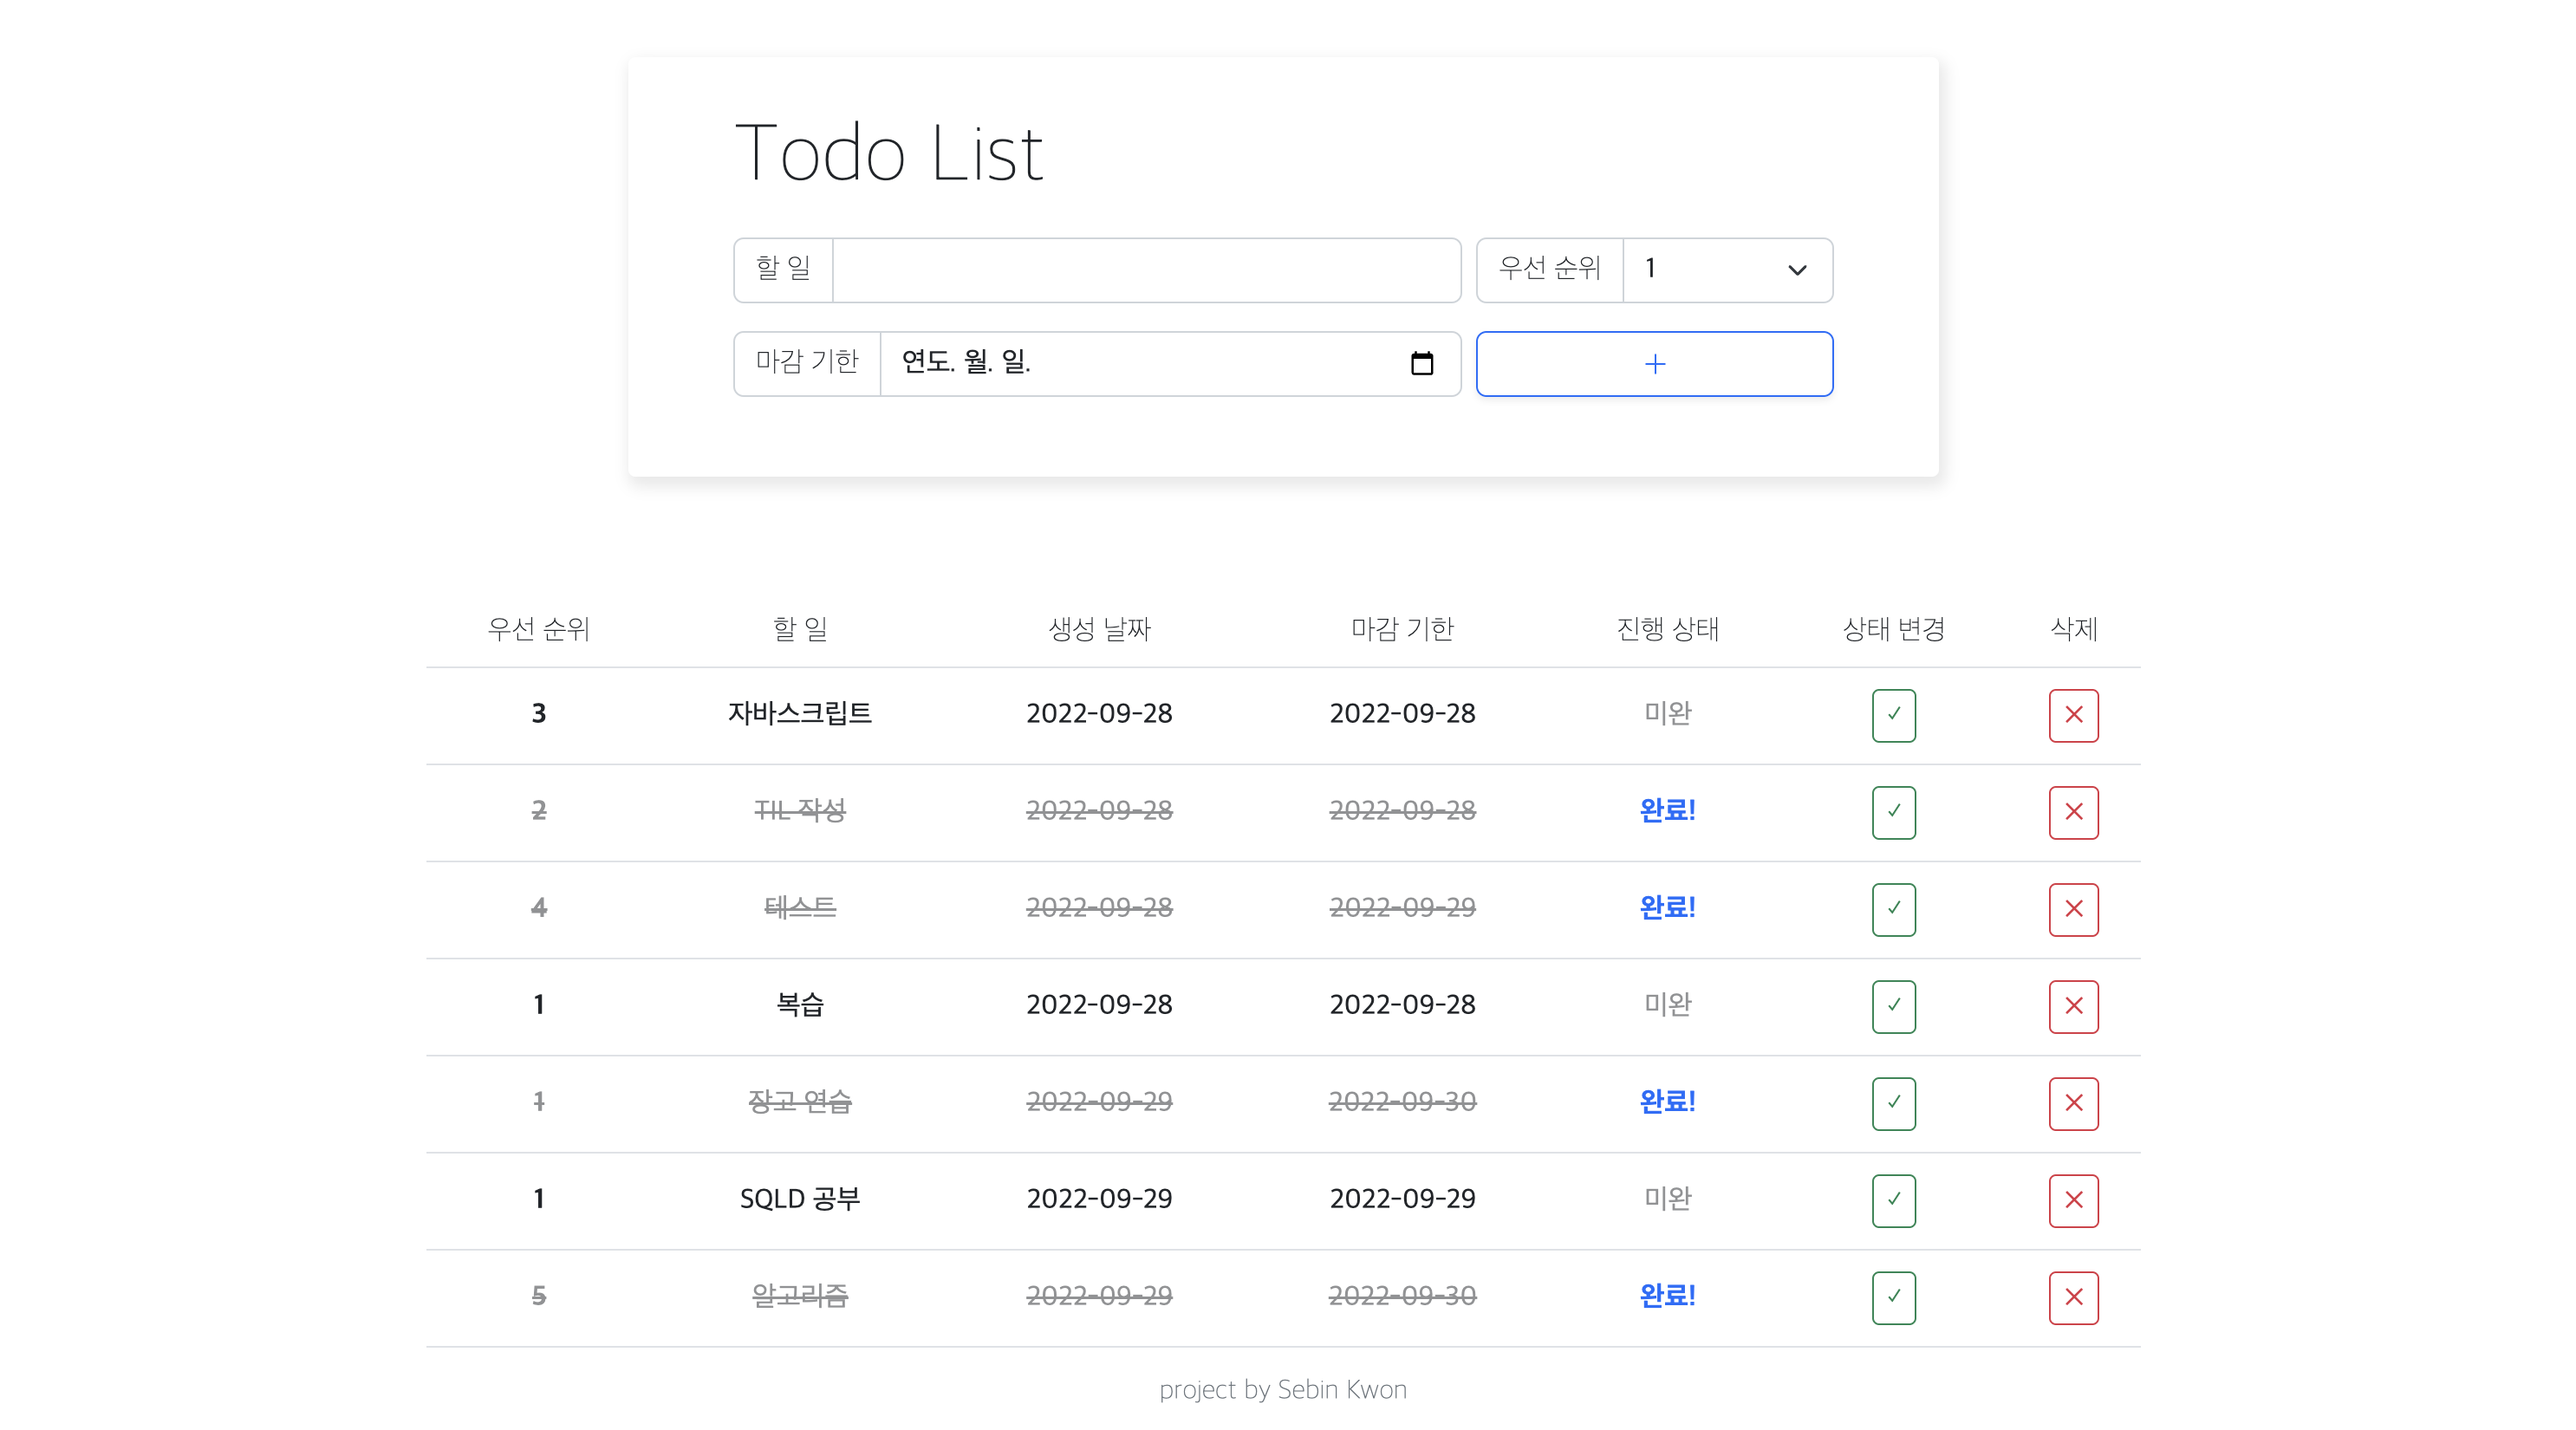
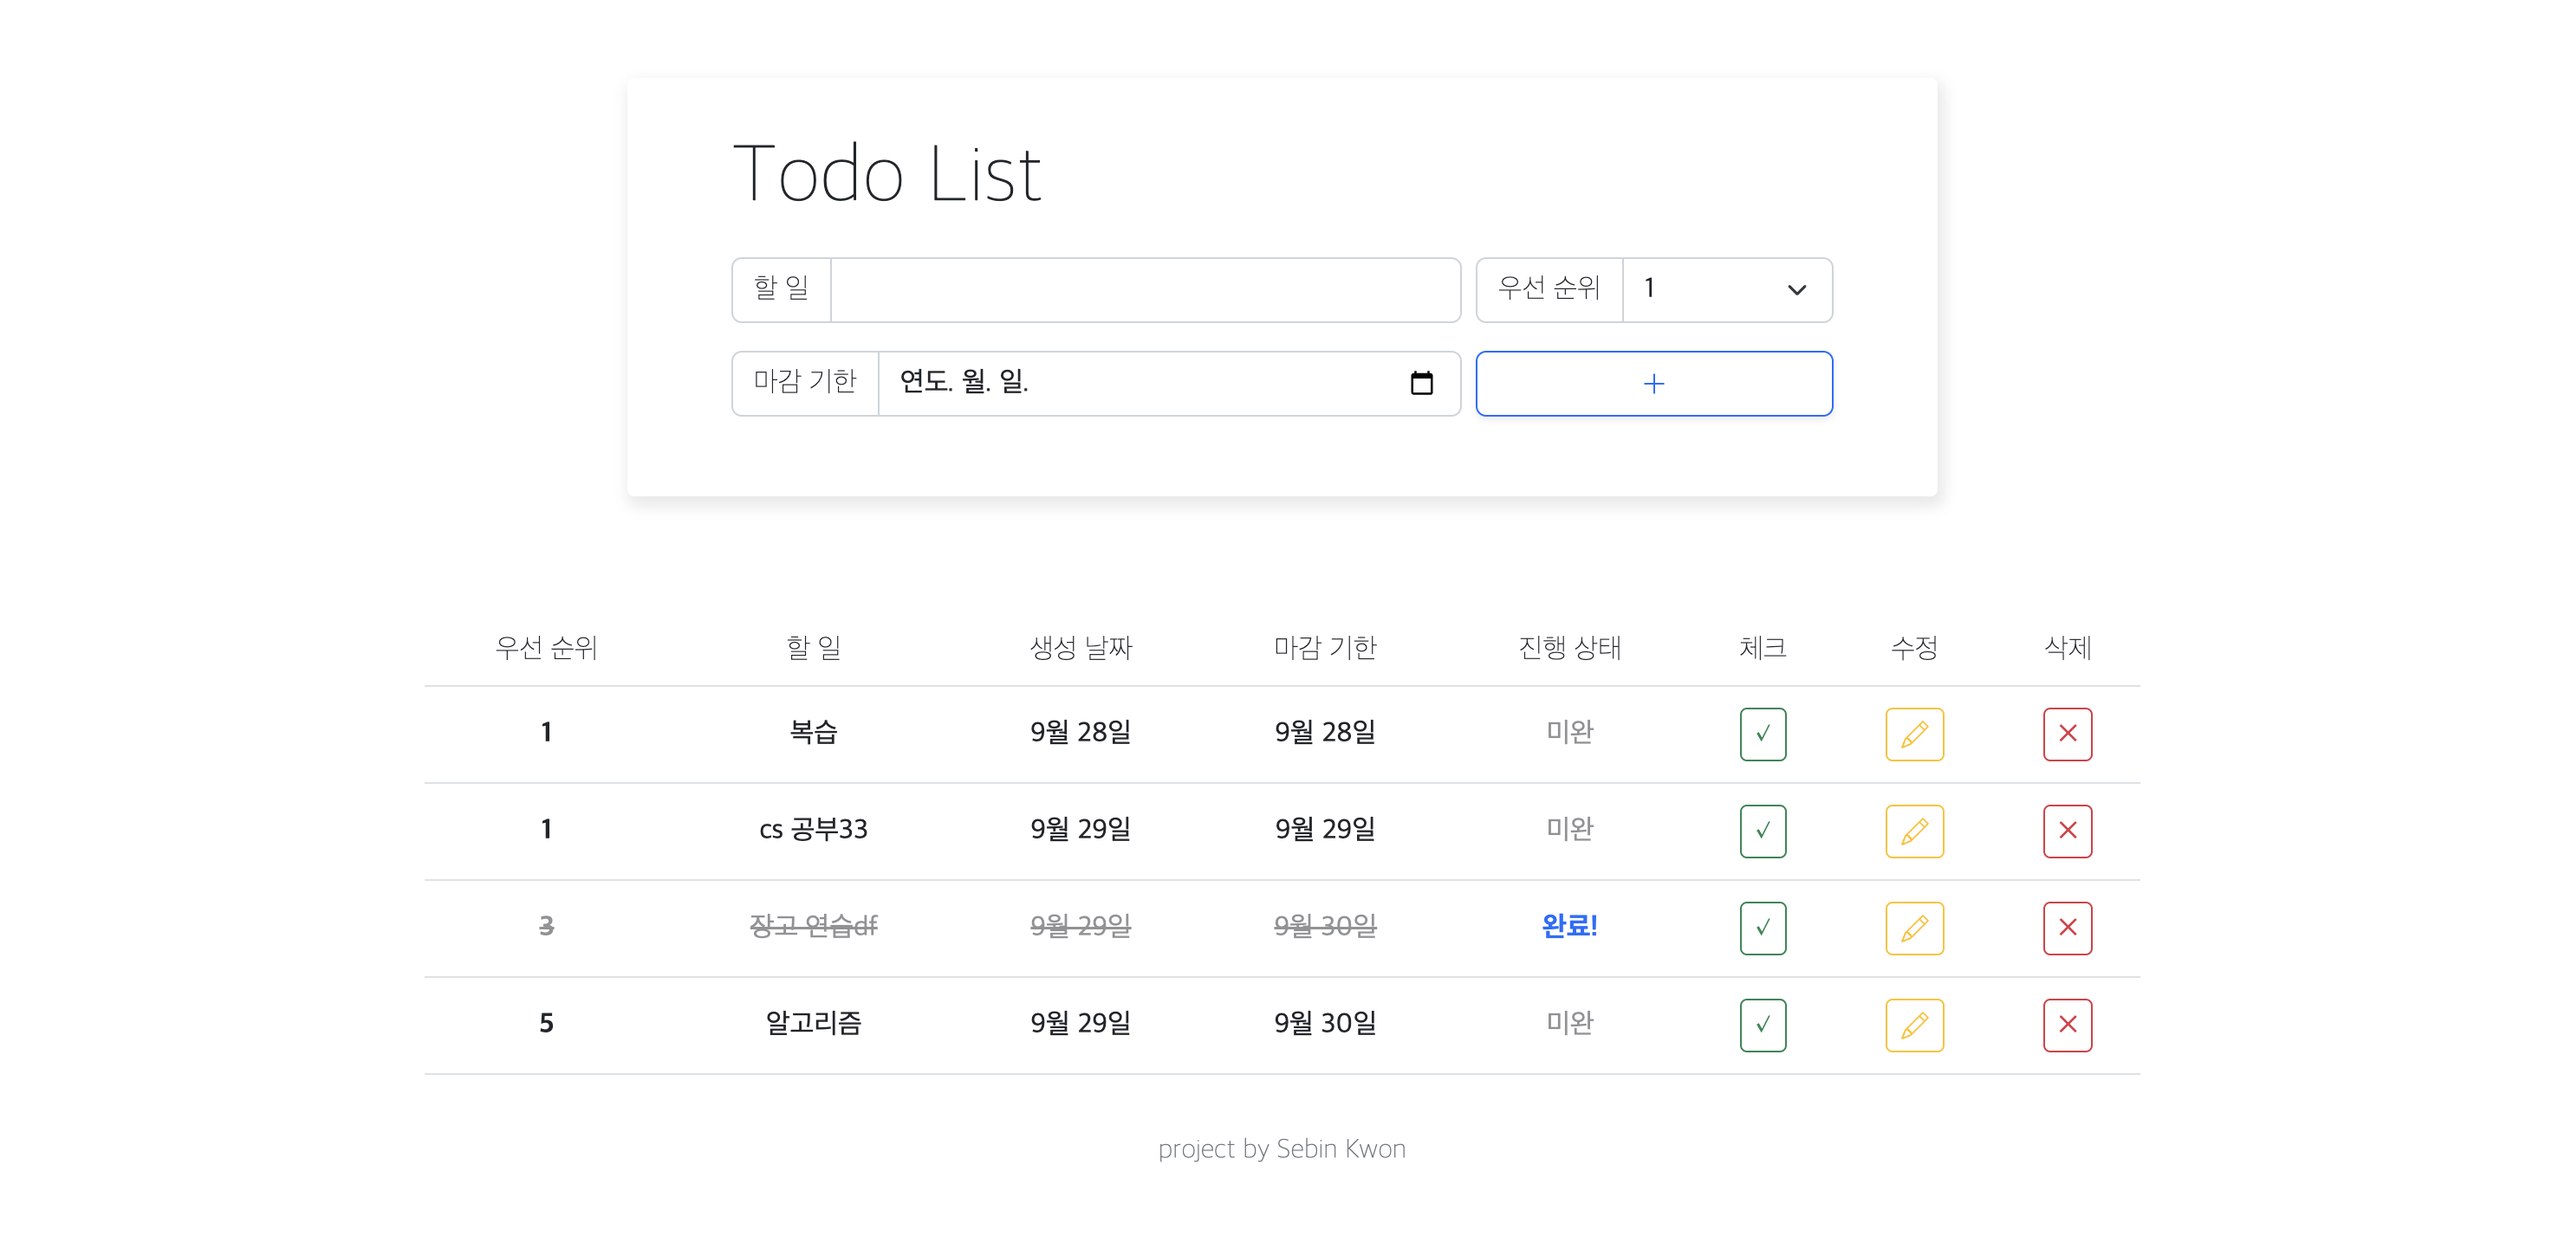
Update ptj-crud modal

diff --git a/Django/practice/ptj_crud/todos/templates/todos/index.html b/Django/practice/ptj_crud/todos/templates/todos/index.html
@@ -1,15 +1,6 @@
-<!DOCTYPE html>
-<html lang="en">
-<head>
-  <meta charset="UTF-8">
-  <meta http-equiv="X-UA-Compatible" content="IE=edge">
-  <meta name="viewport" content="width=device-width, initial-scale=1.0">
-  <title>Document</title>
-  <link href="https://cdn.jsdelivr.net/npm/bootstrap@5.2.1/dist/css/bootstrap.min.css" rel="stylesheet" integrity="sha384-iYQeCzEYFbKjA/T2uDLTpkwGzCiq6soy8tYaI1GyVh/UjpbCx/TYkiZhlZB6+fzT" crossorigin="anonymous">
-  <link rel="preconnect" href="https://fonts.googleapis.com">
-<link rel="preconnect" href="https://fonts.gstatic.com" crossorigin>
-<link href="https://fonts.googleapis.com/css2?family=Noto+Sans+KR:wght@100;300;400;500;700;900&display=swap" rel="stylesheet">
-</head>
+{% extends 'base.html' %}
+
+{% block content %}
 <body style="font-family:'Noto';">
 
   <div class="container row my-5 mx-auto justify-content-center">
@@ -21,7 +12,7 @@
           <div class="col-8">
             <div class="input-group mb-3">
               <span class="bg-white fw-light input-group-text" id="todolist">할 일</span>
-              <input type="text" name="content" class="form-control" aria-label="todo" aria-describedby="todolist" maxlength="80">
+              <input value="{{ todo.content }}" type="text" name="content" class="form-control" aria-label="todo" aria-describedby="todolist" maxlength="80">
             </div>
           </div>
         {# 우선 순위 #}
@@ -67,7 +58,8 @@
           <th class="fw-light" scope="col">생성 날짜</th>
           <th class="fw-light" scope="col">마감 기한</th>
           <th class="fw-light" scope="col">진행 상태</th>
-          <th class="fw-light" scope="col">상태 변경</th>
+          <th class="fw-light" scope="col">체크</th>
+          <th class="fw-light" scope="col">수정</th>
           <th class="fw-light" scope="col">삭제</th>
         </tr>
       </thead>
@@ -77,28 +69,78 @@
           {% if todo.completed == False %}
           <th scope="row">{{ todo.priority }}</th>
           <td>{{ todo.content }}</td>
-          <td>{{ todo.created_at|date:"Y-m-d" }}</td>
-          <td>{{ todo.deadline|date:"Y-m-d" }}</td>
+          <td>{{ todo.created_at.month }}월 {{ todo.created_at.day }}일</td>
+          <td>{{ todo.deadline.month }}월 {{ todo.deadline.day }}일</td>
           <td class="opacity-50">미완</td>
           {% else %}
           <th class="opacity-50 text-decoration-line-through" scope="row">{{ todo.priority }}</th>
           <td class="opacity-50 text-decoration-line-through">{{ todo.content }}</td>
-          <td class="opacity-50 text-decoration-line-through">{{ todo.created_at|date:"Y-m-d" }}</td>
-          <td class="opacity-50 text-decoration-line-through">{{ todo.deadline|date:"Y-m-d" }}</td>
+          <td class="opacity-50 text-decoration-line-through">{{ todo.created_at.month }}월 {{ todo.created_at.day }}일</td>
+          <td class="opacity-50 text-decoration-line-through">{{ todo.deadline.month }}월 {{ todo.deadline.day }}일</td>
           <td class="text-primary fw-bold">완료!</td>
           {% endif %}
-          <td><a class="btn btn-outline-success btn-sm my-1" href="{% url 'todos:update' todo.pk %}">✓</a></td>
+          {# 체크 #}
+          <td><a class="btn btn-outline-success btn-sm my-1" href="{% url 'todos:update' todo.pk %}">⎷</a></td>
+          {# 수정 #}
+          <td>
+            <a href="{% url 'todos:edit' todo.pk %}" class="btn btn-outline-warning btn-sm my-1" data-bs-toggle="modal" data-bs-target="#modal{{ todo.pk }}" data-bs-whatever="@mdo">
+              <svg xmlns="http://www.w3.org/2000/svg" width="16" height="16" fill="currentColor" class="bi bi-pencil" viewBox="0 0 16 16">
+                <path d="M12.146.146a.5.5 0 0 1 .708 0l3 3a.5.5 0 0 1 0 .708l-10 10a.5.5 0 0 1-.168.11l-5 2a.5.5 0 0 1-.65-.65l2-5a.5.5 0 0 1 .11-.168l10-10zM11.207 2.5 13.5 4.793 14.793 3.5 12.5 1.207 11.207 2.5zm1.586 3L10.5 3.207 4 9.707V10h.5a.5.5 0 0 1 .5.5v.5h.5a.5.5 0 0 1 .5.5v.5h.293l6.5-6.5zm-9.761 5.175-.106.106-1.528 3.821 3.821-1.528.106-.106A.5.5 0 0 1 5 12.5V12h-.5a.5.5 0 0 1-.5-.5V11h-.5a.5.5 0 0 1-.468-.325z"/>
+              </svg>
+            </a>
+          </td>
+          {# 수정 모달 #}
+          <div class="modal fade" id="modal{{ todo.pk }}" tabindex="-1" aria-labelledby="modal{{ todo.pk }}Label" aria-hidden="true">
+            <div class="modal-dialog">
+              <div class="modal-content">
+                <div class="modal-header">
+                  <h5 class="modal-title" id="modal{{ todo.pk }}Label">Edit</h5>
+                  <button type="button" class="btn-close" data-bs-dismiss="modal" aria-label="Close"></button>
+                </div>
+                <div class="modal-body">
+                  <form action="{% url 'todos:editUpdate' todo.pk %}">
+                    {# 할 일 #}
+                    <div class="input-group mb-3">
+                      <span class="bg-white fw-light input-group-text" id="todolist">할 일</span>
+                      <input value="{{ todo.content }}" type="text" name="content" class="form-control" aria-label="todo" aria-describedby="todolist" maxlength="80">
+                    </div>
+                    {# 우선 순위 #}
+                      <div class="input-group mb-3">
+                        <label class="bg-white fw-light input-group-text" for="inputGroupSelect01">우선 순위</label>
+                        <select class="form-select" id="inputGroupSelect01" name="priority">
+                          <option value="{{ todo.priority }}" selected  hidden>{{ todo.priority }}</option>
+                          <option value="1">1</option>
+                          <option value="2">2</option>
+                          <option value="3">3</option>
+                          <option value="4">4</option>
+                          <option value="5">5</option>
+                        </select>
+                      </div>
+                      {# 마감 기한 #}
+                      <div class="input-group mb-3">
+                        <span class="bg-white fw-light input-group-text" id="basic-addon1">마감 기한</span>
+                        <input value="{{todo.deadline|date:'Y-m-d'}}" type="date" class="form-control" name="deadline" placeholder="Username" aria-label="Username" aria-describedby="basic-addon1">
+                      </div>
+                      <div class="modal-footer">
+                        <button type="submit" class="btn btn-primary">수정 완료</button>
+                      </div>
+                  </form>
+                </div>
+              </div>
+            </div>
+            </div>
+
+          {# 삭제 #}
           <td><a class="btn btn-outline-danger btn-sm my-1" href="{% url 'todos:delete' todo.pk %}">✕</a></td>
         </tr>
         {% endfor %}
       </tbody>
     </table>
-  </div>
-  </div>
+
   <footer class="position-sticky bottom-0">
     <div class="py-3 fw-light text-center text-secondary">project by Sebin Kwon</div>
   </footer>
 
   <script src="https://cdn.jsdelivr.net/npm/bootstrap@5.2.1/dist/js/bootstrap.bundle.min.js" integrity="sha384-u1OknCvxWvY5kfmNBILK2hRnQC3Pr17a+RTT6rIHI7NnikvbZlHgTPOOmMi466C8" crossorigin="anonymous"></script>
 </body>
-</html>
+{% endblock content %}

diff --git a/Django/practice/ptj_crud/templates/base.html b/Django/practice/ptj_crud/templates/base.html
@@ -1,0 +1,17 @@
+<!DOCTYPE html>
+<html lang="en">
+<head>
+  <meta charset="UTF-8">
+  <meta http-equiv="X-UA-Compatible" content="IE=edge">
+  <meta name="viewport" content="width=device-width, initial-scale=1.0">
+  <title>Document</title>
+  <link href="https://cdn.jsdelivr.net/npm/bootstrap@5.2.1/dist/css/bootstrap.min.css" rel="stylesheet" integrity="sha384-iYQeCzEYFbKjA/T2uDLTpkwGzCiq6soy8tYaI1GyVh/UjpbCx/TYkiZhlZB6+fzT" crossorigin="anonymous">
+  <link rel="preconnect" href="https://fonts.googleapis.com">
+<link rel="preconnect" href="https://fonts.gstatic.com" crossorigin>
+<link href="https://fonts.googleapis.com/css2?family=Noto+Sans+KR:wght@100;300;400;500;700;900&display=swap" rel="stylesheet">
+</head>
+<body>
+  {% block content %}
+  {% endblock content %}
+</body>
+</html>

diff --git a/Django/practice/ptj_crud/todos/views.py b/Django/practice/ptj_crud/todos/views.py
@@ -3,10 +3,10 @@ from .models import Todo
 
 # Create your views here.
 def index(request):
-    todos = Todo.objects.all()
+    todos = Todo.objects.all().order_by('priority')
 
     context = {
-        'todos' : todos
+        'todos' : todos,
     }
     return render(request, 'todos/index.html', context)
 
@@ -14,6 +14,7 @@ def create(request):
     content = request.GET.get('content')
     priority = request.GET.get('priority')
     deadline = request.GET.get('deadline')
+
     Todo.objects.create(content=content,priority=priority,deadline=deadline)
     
     return redirect('todos:index')
@@ -25,5 +26,20 @@ def delete(request,pk):
 def update(request,pk):
     todos = Todo.objects.get(id=pk)
     todos.completed = not todos.completed
+    todos.save()
+    return redirect('todos:index')
+
+def edit(request,pk):
+    todos = Todo.objects.get(id=pk)
+    context = {
+        'todos' : todos
+    }
+    return redirect('todos:index', context)
+
+def editUpdate(request,pk):
+    todos = Todo.objects.get(id=pk)
+    todos.content = request.GET.get('content')
+    todos.priority = request.GET.get('priority')
+    todos.deadline = request.GET.get('deadline')
     todos.save()
     return redirect('todos:index')

diff --git a/Django/practice/ptj_crud/todos/urls.py b/Django/practice/ptj_crud/todos/urls.py
@@ -8,5 +8,7 @@ urlpatterns = [
     path('create/', views.create, name='create'),
     path('delete/<int:pk>', views.delete, name='delete'),
     path('update/<int:pk>', views.update, name='update'),
+    path('edit/<int:pk>', views.edit, name='edit'),
+    path('editUpdate/<int:pk>', views.editUpdate, name='editUpdate'),
 ]
 

diff --git a/Django/practice/ptj_crud/README.md b/Django/practice/ptj_crud/README.md
@@ -2,6 +2,8 @@
 
 ![1](README.assets/1.png)
 
+![1](README.assets/2.png)
+
 ## 목표
 
 > CRUD 기능을 가진 Todo 서비스를 개발, 부트스트랩을 이용하여 디자인
@@ -15,7 +17,10 @@
 - Read
   - 할 일 목록 보기
 - Update
-  - 할 일 완료 여부 변경하기
+  - 체크
+    - 할 일 완료 여부 변경하기
+  - 수정
+    - 할 일, 우선 순위, 마감 기한 변경하기
 - Delete
   - 할 일 삭제하기
 
